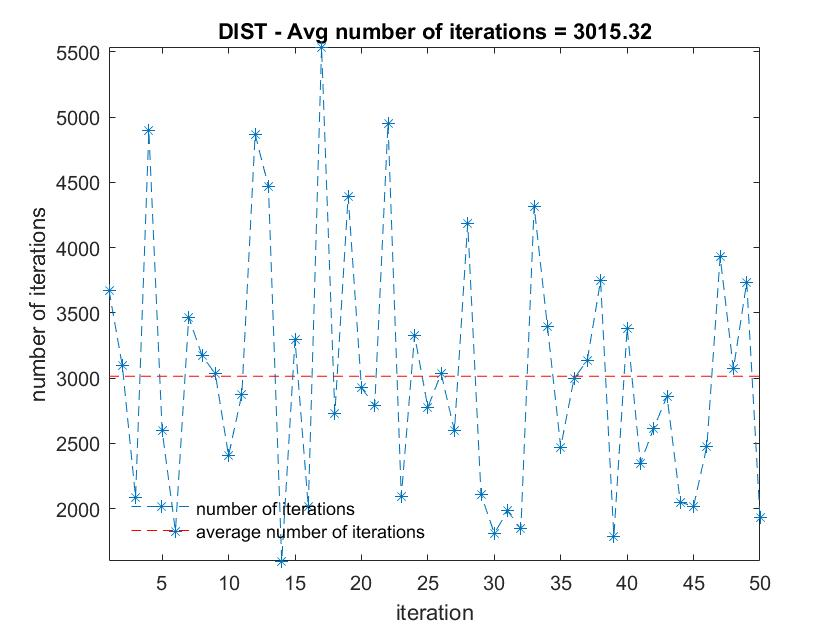
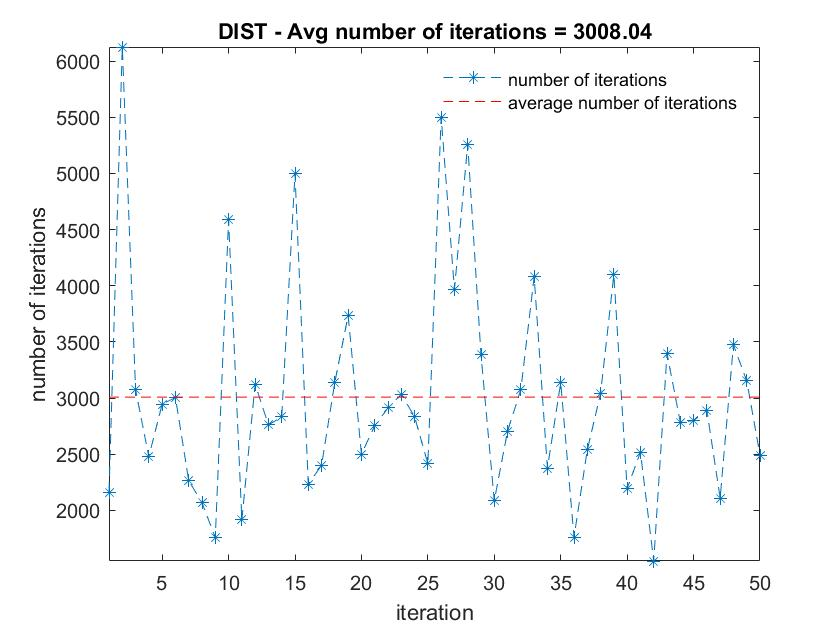
modified screenshots

diff --git a/localization_dist.m b/localization_dist.m
@@ -12,7 +12,7 @@ ni=50;
 lam = 1e-4;
 tau = 0.7;
 max_iter = 1e4;
-min_eps = 1e-5;
+min_eps = 1e-4;
 success = 0;
 iter=zeros(ni,1);
 dist=zeros(ni, 1);
